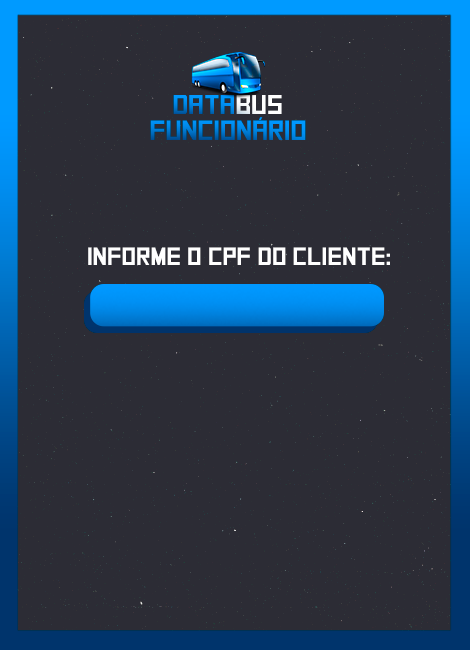
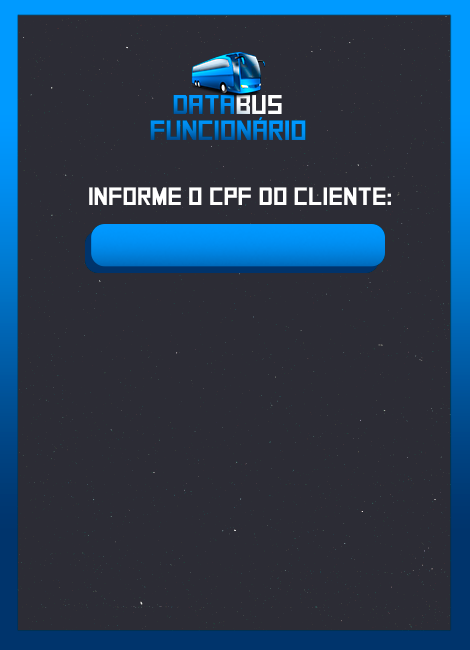
gerenciar cliente

Changed region(s): [[0.1787, 0.2769, 0.834, 0.5231]]

diff --git a/view/styles.css b/view/styles.css
@@ -24,7 +24,15 @@
   #textTelefoneCLT,
   #textEmailCLT, 
   #valorRecarga,
-  #funcionarIoBuscarCliente{
+  #funcionarIoBuscarCliente
+  {
+    -fx-text-fill: white;
+    -fx-background-color: transparent;
+  }
+
+  #editarEmail, #editarEndereco, #editarNome, 
+  #editarSenha, #editarTelefone,
+  #funcionarIoEditarCliente {
     -fx-text-fill: white;
     -fx-background-color: transparent;
   }

diff --git a/controller/ScreenController.java b/controller/ScreenController.java
@@ -41,6 +41,8 @@ public class ScreenController implements Initializable {
   @FXML
   private ImageView botaoLogin;
   @FXML
+  private ImageView botaoSalvar;
+  @FXML
   private ImageView passeCLT;
   @FXML
   private ImageView passeIdoso;
@@ -56,6 +58,8 @@ public class ScreenController implements Initializable {
   private ImageView botaoGerenciarRotas;
   @FXML
   private ImageView botaoFuncionario;
+  @FXML
+  private ImageView botaoBuscar;
   @FXML
   private Group groupCLT;
   @FXML
@@ -160,6 +164,8 @@ public class ScreenController implements Initializable {
   @FXML
   private Group groupBuscarCliente;
   @FXML
+  private Group groupGerenciarCliente;
+  @FXML
   private Label saldoCliente;
   @FXML
   private ImageView saldoIMG;
@@ -229,6 +235,18 @@ public class ScreenController implements Initializable {
   private TextField valorRecarga;
   @FXML
   private TextField funcionarioBuscarCliente;
+  @FXML
+  private TextField editarEmail;
+  @FXML
+  private TextField editarEndereco;
+  @FXML
+  private TextField editarNome;
+  @FXML
+  private TextField editarSenha;
+  @FXML
+  private TextField editarTelefone;
+  @FXML
+  private TextField editarCliente;
 
   private Cliente ClienteAtual;
   private Passe passe;
@@ -465,7 +483,6 @@ public class ScreenController implements Initializable {
       }
     }
   }
-  
 
   @FXML
   void buscarCliente(MouseEvent event) {
@@ -474,11 +491,11 @@ public class ScreenController implements Initializable {
 
     groupBuscarCliente.setVisible(true);
 
+    botaoBuscar.setVisible(true);
+    botaoBuscar.setDisable(false);
+
     botaoVoltar.setVisible(true);
     botaoVoltar.setDisable(false);
-    if(!funcionarioBuscarCliente.getText().isEmpty()){
-      showClient(funcionarioBuscarCliente.getText());
-    }
   }
 
   @FXML
@@ -488,11 +505,29 @@ public class ScreenController implements Initializable {
 
   @FXML
   void gerenciarCliente(MouseEvent event) {
+    groupFuncionario.setVisible(false);
+    groupFuncionario.setDisable(true);
+
+    groupGerenciarCliente.setVisible(true);
+    groupGerenciarCliente.setDisable(false);
 
   }
 
   @FXML
   void gerenciarRotas(MouseEvent event) {
+
+  }
+
+  @FXML
+  void buscarCpfCliente(MouseEvent event) {
+    //if(!funcionarioBuscarCliente.getText().isEmpty()){
+      System.out.println("BUSCOU A PICA");
+      //showClient(funcionarioBuscarCliente.getText());
+    //}
+  }
+
+  @FXML
+  void salvarDadosEditados(MouseEvent event) {
 
   }
 
